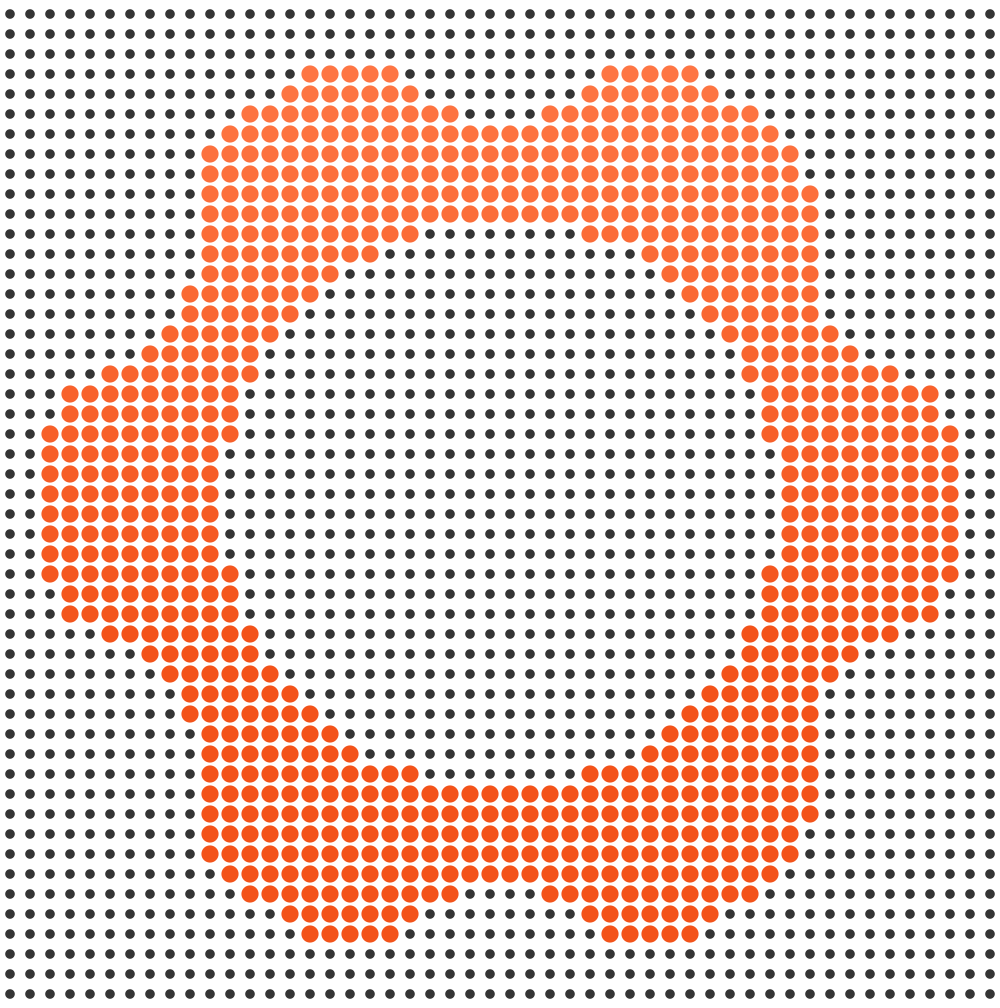
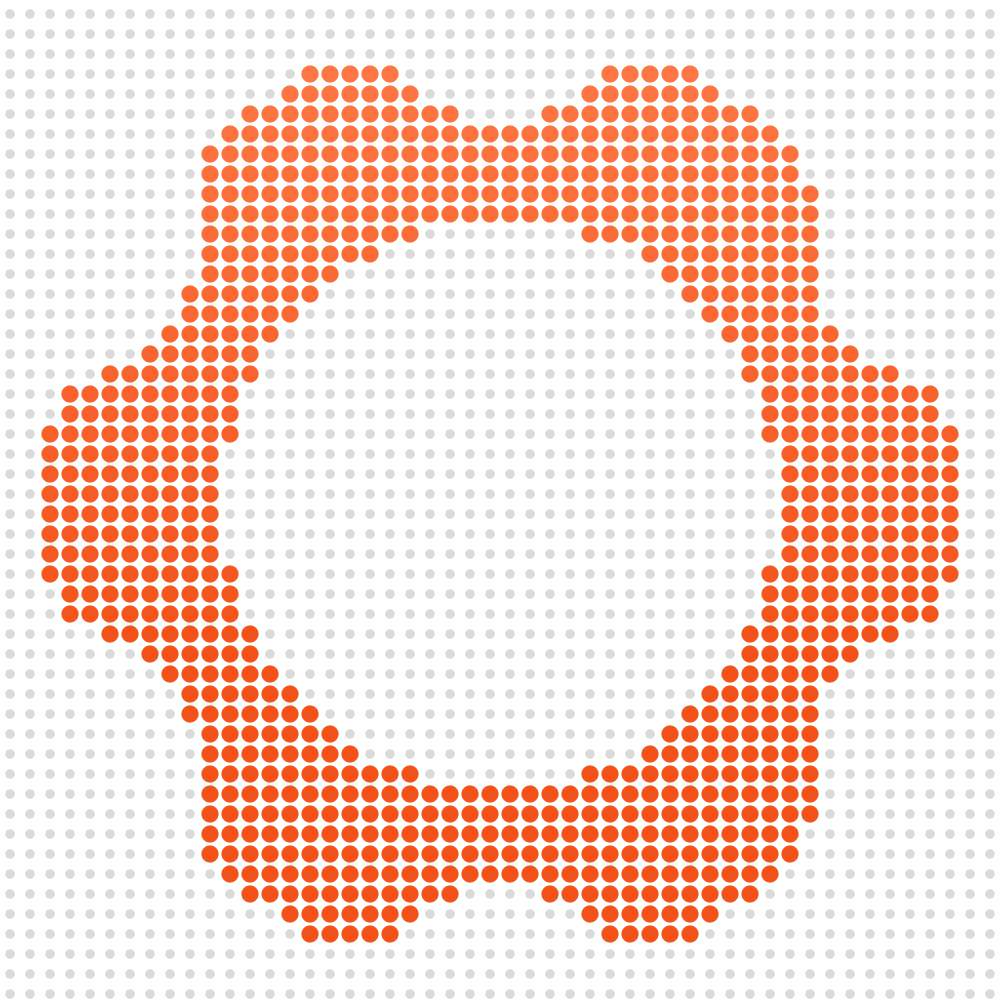
Finish light mode: kitty, Floorp, btop and terminal looks

Changed region(s): [[0.0, 0.0, 1.0, 1.0], [0.217, 0.2153, 0.775, 0.7688]]

diff --git a/floorp/userChrome.css b/floorp/userChrome.css
@@ -2,7 +2,7 @@
 @charset "UTF-8";
 @-moz-document url(chrome://browser/content/browser.xhtml) {
 :root, :root[lwtheme], #browser {
-  --gr-0: #0c0c0c; --gr-1: #1a1a1a; --gr-2: #252525; --gr-3: #343434; --gr-tx: #f0f0f0; --gr-dim: #9a9a9a; --gr-or: #f3531a;
+  --gr-0: #0c0c0c; --gr-1: #1a1a1a; --gr-2: #252525; --gr-3: #343434; --gr-tx: #f0f0f0; --gr-dim: #9a9a9a; --gr-or: #f3531a; --gr-4: #444; --gr-hov: #222; --gr-url: #ff8052;
   color-scheme: dark !important;
   --toolbox-bgcolor: var(--gr-1) !important; --toolbox-bgcolor-inactive: var(--gr-1) !important;
   --lwt-accent-color: var(--gr-1) !important; --lwt-accent-color-inactive: var(--gr-1) !important; --lwt-text-color: var(--gr-tx) !important;
@@ -11,23 +11,27 @@
   --lwt-tab-line-color: transparent !important; --tab-line-color: transparent !important; --tabs-border-color: transparent !important;
   --toolbar-field-background-color: var(--gr-1) !important; --toolbar-field-color: var(--gr-tx) !important; --toolbar-field-border-color: transparent !important;
   --toolbar-field-focus-background-color: var(--gr-0) !important; --toolbar-field-focus-color: var(--gr-tx) !important; --toolbar-field-focus-border-color: var(--gr-or) !important;
-  --urlbar-box-bgcolor: var(--gr-2) !important; --urlbar-popup-url-color: #ff8052 !important; --urlbarView-highlight-background: var(--gr-or) !important; --urlbarView-highlight-color: #141414 !important;
+  --urlbar-box-bgcolor: var(--gr-2) !important; --urlbar-popup-url-color: var(--gr-url) !important; --urlbarView-highlight-background: var(--gr-or) !important; --urlbarView-highlight-color: #141414 !important;
   --arrowpanel-background: var(--gr-1) !important; --arrowpanel-color: var(--gr-tx) !important; --arrowpanel-border-color: var(--gr-3) !important; --panel-background: var(--gr-1) !important; --panel-color: var(--gr-tx) !important;
   --toolbarbutton-icon-fill: var(--gr-tx) !important; --toolbarbutton-icon-fill-attention: var(--gr-or) !important; --lwt-toolbarbutton-icon-fill: var(--gr-tx) !important;
-  --toolbarbutton-hover-background: var(--gr-3) !important; --toolbarbutton-active-background: #444 !important;
+  --toolbarbutton-hover-background: var(--gr-3) !important; --toolbarbutton-active-background: var(--gr-4) !important;
   --button-primary-bgcolor: var(--gr-or) !important; --button-primary-color: #141414 !important; --color-accent-primary: var(--gr-or) !important; --color-accent-primary-hover: #ff6a35 !important; --color-accent-primary-active: #d9460f !important;
   --focus-outline-color: var(--gr-or) !important; --sidebar-background-color: var(--gr-1) !important; --sidebar-text-color: var(--gr-tx) !important; --chrome-content-separator-color: var(--gr-3) !important;
   --tabpanel-background-color: var(--gr-0) !important; --newtab-background-color: var(--gr-0) !important;
   --toolbar-field-border-radius: 10px; --tab-border-radius: 9px !important;
   accent-color: var(--gr-or);
 }
+@media (prefers-color-scheme: light) { :root, :root[lwtheme], #browser {
+  --gr-0: #fafafa; --gr-1: #ececec; --gr-2: #dedede; --gr-3: #c8c8c8; --gr-4: #b8b8b8; --gr-hov: #e4e4e4; --gr-tx: #252525; --gr-dim: #6a6a6a; --gr-url: #b83808;
+  color-scheme: light !important;
+} }
 :root, #navigator-toolbox, panel, menupopup, tooltip { font-family: "Space Mono", monospace !important; }
 #navigator-toolbox { background: var(--gr-1) !important; border-bottom-color: var(--gr-3) !important; }
 #nav-bar, #PersonalToolbar { background: var(--gr-2) !important; }
 /* Selected tab: orange dot under the title, like the dock */
 .tabbrowser-tab[selected] .tab-background { outline: none !important; border-color: transparent !important; box-shadow: none !important; background: radial-gradient(circle 3px at 50% calc(100% - 5px), #f3531a 2.4px, transparent 3px), var(--gr-2) !important; }
 .tabbrowser-tab:not([selected]) .tab-label { color: var(--gr-dim) !important; }
-.tabbrowser-tab:not([selected]):hover .tab-background { background: #222 !important; }
+.tabbrowser-tab:not([selected]):hover .tab-background { background: var(--gr-hov) !important; }
 /* Address bar */
 #urlbar[focused] > .urlbar-background, #urlbar[focused] > #urlbar-background { border-color: var(--gr-or) !important; outline: none !important; }
 ::selection { background: #f3531a; color: #141414; }

diff --git a/floorp/userContent.css b/floorp/userContent.css
@@ -8,3 +8,13 @@
   :root { color-scheme: dark !important; accent-color: #f3531a; --color-accent-primary: #f3531a !important; --color-accent-primary-hover: #ff6a35 !important; --in-content-primary-button-background: #f3531a !important; --in-content-primary-button-text-color: #141414 !important; --in-content-accent-color: #f3531a !important; --in-content-page-background: #1a1a1a !important; --in-content-box-background: #252525 !important; --background-color-canvas: #1a1a1a !important; --background-color-box: #252525 !important; --card-background-color: #252525 !important; --text-color: #f0f0f0 !important; --border-color-card: #3a3a3a !important; --link-color: #ff8052 !important; }
   ::selection { background: #f3531a; color: #141414; }
 }
+/* Light mode */
+@media (prefers-color-scheme: light) {
+@-moz-document url-prefix("about:newtab"), url-prefix("about:home"), url-prefix("about:privatebrowsing"), url("about:blank") {
+  :root { --newtab-background-color: #f4f4f4 !important; --newtab-background-color-secondary: #ffffff !important; --newtab-text-primary-color: #252525 !important; }
+  body { background-color: #f4f4f4 !important; background-image: radial-gradient(circle, rgba(0,0,0,.09) 2.2px, transparent 2.9px) !important; }
+}
+@-moz-document url-prefix("about:") {
+  :root { color-scheme: light !important; --in-content-page-background: #f4f4f4 !important; --in-content-box-background: #ffffff !important; --background-color-canvas: #f4f4f4 !important; --background-color-box: #ffffff !important; --card-background-color: #ffffff !important; --text-color: #252525 !important; --border-color-card: #cfcfcf !important; --link-color: #b83808 !important; }
+}
+}

diff --git a/sources/fastfetch-logo.py b/sources/fastfetch-logo.py
@@ -19,7 +19,7 @@ for j in range(G+2*pad):
         if c>=.5:
             t=j/(G+2*pad); a,b=(255,122,72),(243,83,26); k=min(1,t*1.6)
             col='#%02x%02x%02x'%tuple(round(a[q]+(b[q]-a[q])*k) for q in range(3)); r=.43
-        else: col,r='#343434',.24
+        else: col,r='#808080" fill-opacity=".28',.24
         o.append(f'<circle cx="{(i+.5)*P}" cy="{(j+.5)*P}" r="{r*P}" fill="{col}"/>')
 # a 36x15-cell box in Space Mono is this shape, so the logo isn't stretched
 H=round(W*(15*1.481)/(36*.612)); dy=(H-W)/2

diff --git a/README.md b/README.md
@@ -7,7 +7,7 @@ grey and orange. Made with help from [Claude Code](https://claude.com/claude-cod
 
 ![Full desktop in dark mode](preview/desktop-dark.png)
 
-**Light (beta)**
+**Light**
 
 ![Full desktop in light mode](preview/desktop-light.png)
 
@@ -141,10 +141,8 @@ You can also add single widgets: right-click the desktop, **Add Widgets**, and s
 
 ### Light and dark mode
 
-> **Light mode is in beta.** It works, but expect rough edges: some parts stay dark (such as the Floorp theme) and bugs are
-> likely. Please open an **Issue** if you find one.
-
-Both are included and follow KDE's light/dark switch. You can also pick **Framework Dots** or **Framework Dots Light** in
+Both are included and follow KDE's light/dark switch. That includes kitty, btop, the terminal looks and the Floorp
+theme; btop changes the next time you open it. You can also pick **Framework Dots** or **Framework Dots Light** in
 System Settings → **Global Theme** (leave the layout option unticked).
 The moving black hole switches too (turn off **Follow light/dark mode** in its settings to stop that).
 Still pictures don't; there's a light one called `dot-matrix-blackhole-light.png`.
